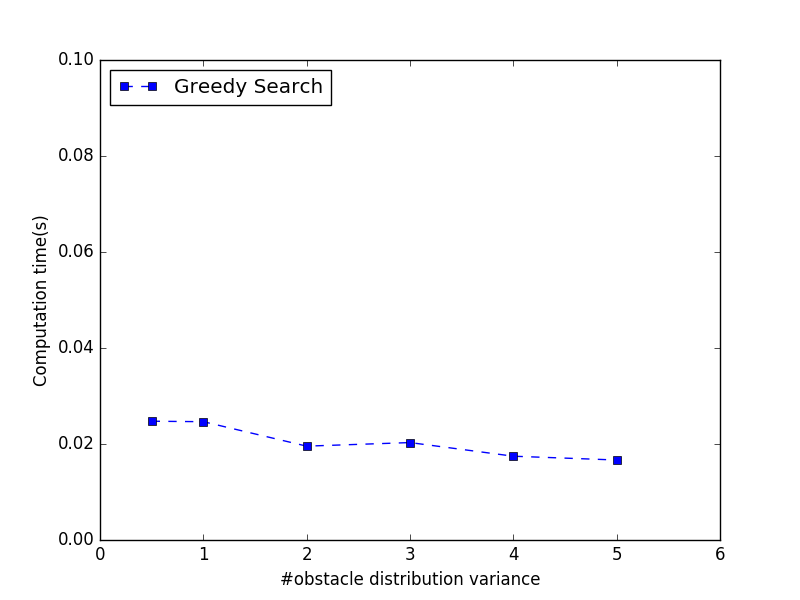
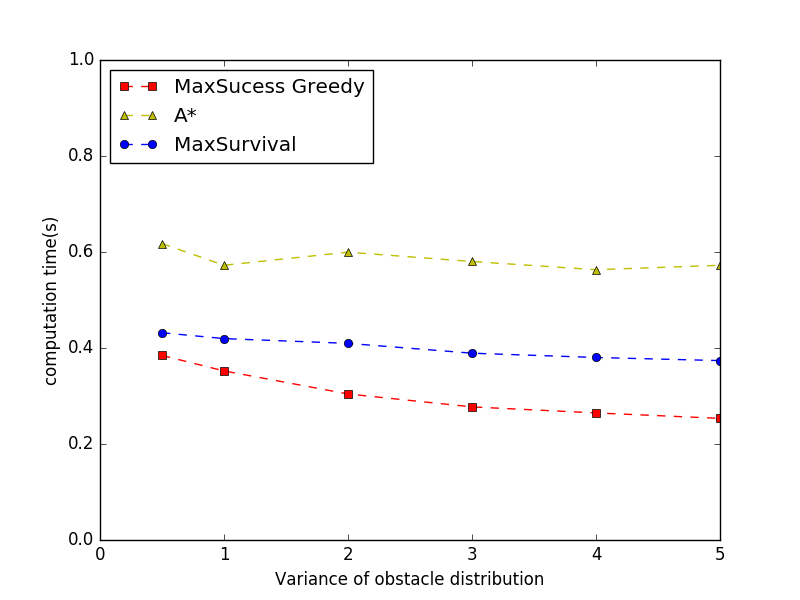
Finish the experiment. Start drafting the paper

diff --git a/multi-goal Greedy executing and replanning/statistics_draw.py b/multi-goal Greedy executing and replanning/statistics_draw.py
@@ -9,17 +9,26 @@ plt.switch_backend('TKagg')
 
 if __name__ == '__main__':
 	
-	file1_nObs_g = "./statistics_ExecutionReplanning/nObstacles/nObstacles_performance.txt";
-	file2_nPosesPerObs_g = "./statistics_ExecutionReplanning/nPosesPerObs/nPosesPerObs_performance.txt";
-	file3_distrVar_g = "./statistics_ExecutionReplanning/distrVar/distrVar_performance.txt";
+	file1_nObs = "./statistics_ExecutionReplanning/nObstacles/nObstacles_performance.txt";
+	file2_nPosesPerObs = "./statistics_ExecutionReplanning/nPosesPerObs/nPosesPerObs_performance.txt";
+	file3_distrVar = "./statistics_ExecutionReplanning/distrVar/distrVar_performance.txt";
 
 	## write in my first file
 	############################################################################
-	f = open(file1_nObs_g)
+	f = open(file1_nObs)
 	nObs = []
 	time_g = []
 	nReplan_g = []
 	pathLength_g = []
+	pathUtilityRate_g = []
+	time_a = []
+	nReplan_a = []
+	pathLength_a = []
+	pathUtilityRate_a = []
+	time_m = []
+	nReplan_m = []
+	pathLength_m = []
+	pathUtilityRate_m = []	
 
 	_counter = 0;
 
@@ -31,41 +40,77 @@ if __name__ == '__main__':
 		time_g.append(line[1])
 		nReplan_g.append(line[2])
 		pathLength_g.append(line[3])
+		pathUtilityRate_g.append(line[4])
+		time_a.append(line[5])
+		nReplan_a.append(line[6])
+		pathLength_a.append(line[7])
+		pathUtilityRate_a.append(line[8])
+		time_m.append(line[9])
+		nReplan_m.append(line[10])
+		pathLength_m.append(line[11])
+		pathUtilityRate_m.append(line[12])
+
+	# IPython.embed()
 
 	## Let's plot the figures
 	plt.figure(1)
-	plt.plot(nObs, time_g, 'bs--', label='Greedy Search')
+	plt.plot(nObs, time_g, 'rs--', label='MaxSucess Greedy')
+	plt.plot(nObs, time_a, 'y^--', label="A*")
+	plt.plot(nObs, time_m, 'bo--', label="MaxSurvival")
 	plt.legend(loc='upper left')
 	plt.xlabel("#obstacles")
-	plt.xlim((3, 55))
-	plt.ylabel("Computation time(s)")
-	plt.ylim((0, 0.03))
+	plt.xlim((8, 65))
+	plt.ylabel("computation time(s)")
+	plt.ylim((0, 1))
 
 	plt.figure(2)
-	plt.plot(nObs, nReplan_g, 'bs--', label='Greedy Search') 
+	plt.plot(nObs, nReplan_g, 'rs--', label='MaxSuccess Greedy')
+	plt.plot(nObs, nReplan_a, 'y^--', label="A*")
+	plt.plot(nObs, nReplan_m, 'bo--', label="MaxSurvival") 
 	plt.legend(loc='upper left')
 	plt.xlabel("#obstacles")
-	plt.xlim((3, 55))
+	plt.xlim((8, 65))
 	plt.ylabel("#replans")
-	plt.ylim((0, 2))
+	plt.ylim((0, 5))
 
 	plt.figure(3)
-	plt.plot(nObs, pathLength_g, 'bs--', label='Greedy Search') 
+	plt.plot(nObs, pathLength_g, 'rs--', label='MaxSuccess Greedy')
+	plt.plot(nObs, pathLength_a, 'y^--', label="A*")
+	plt.plot(nObs, pathLength_m, 'bo--', label="MaxSurvival")  
 	plt.legend(loc='upper left')
 	plt.xlabel("#obstacles")
-	plt.xlim((3, 55))
+	plt.xlim((8, 65))
 	plt.ylabel("path length")
-	plt.ylim((40,70))
+	plt.ylim((0,80))
+
+	plt.figure(4)
+	plt.plot(nObs, pathUtilityRate_g, 'rs--', label='MaxSuccess Greedy')
+	plt.plot(nObs, pathUtilityRate_a, 'y^--', label="A*")
+	plt.plot(nObs, pathUtilityRate_m, 'bo--', label="MaxSurvival")  
+	plt.legend(loc='lower right')
+	plt.xlabel("#obstacles")
+	plt.xlim((8, 65))
+	plt.ylabel("path utility rate")
+	plt.ylim((0.5, 1.2))
 	##############################################################################
 
 
 	## write in my second file
 	############################################################################
-	f = open(file2_nPosesPerObs_g)
+	f = open(file2_nPosesPerObs)
 	nPosesPerObs = []
 	time_g = []
 	nReplan_g = []
 	pathLength_g = []
+	pathUtilityRate_g = []
+	time_a = []
+	nReplan_a = []
+	pathLength_a = []
+	pathUtilityRate_a = []
+	time_m = []
+	nReplan_m = []
+	pathLength_m = []
+	pathUtilityRate_m = []
 
 	_counter = 0;
 
@@ -77,40 +122,74 @@ if __name__ == '__main__':
 		time_g.append(line[1])
 		nReplan_g.append(line[2])
 		pathLength_g.append(line[3])
+		pathUtilityRate_g.append(line[4])
+		time_a.append(line[5])
+		nReplan_a.append(line[6])
+		pathLength_a.append(line[7])
+		pathUtilityRate_a.append(line[8])
+		time_m.append(line[9])
+		nReplan_m.append(line[10])
+		pathLength_m.append(line[11])
+		pathUtilityRate_m.append(line[12])
 
 	## Let's plot the figures
-	plt.figure(4)
-	plt.plot(nPosesPerObs, time_g, 'bs--', label='Greedy Search')
-	plt.legend(loc='upper left')
-	plt.xlabel("#Poses per obstacle")
-	plt.xlim((1, 10))
-	plt.ylabel("Computation time(s)")
-	plt.ylim((0, 0.1))
-
 	plt.figure(5)
-	plt.plot(nPosesPerObs, nReplan_g, 'bs--', label='Greedy Search') 
+	plt.plot(nPosesPerObs, time_g, 'rs--', label='MaxSucess Greedy')
+	plt.plot(nPosesPerObs, time_a, 'y^--', label="A*")
+	plt.plot(nPosesPerObs, time_m, 'bo--', label="MaxSurvival")
 	plt.legend(loc='upper left')
-	plt.xlabel("#Poses per obstacle")
+	plt.xlabel("#poses per obstacle")
 	plt.xlim((1, 10))
-	plt.ylabel("#replans")
-	plt.ylim((0, 3))
+	plt.ylabel("computation time(s)")
+	plt.ylim((0, 1))
 
 	plt.figure(6)
-	plt.plot(nPosesPerObs, pathLength_g, 'bs--', label='Greedy Search') 
+	plt.plot(nPosesPerObs, nReplan_g, 'rs--', label='MaxSuccess Greedy')
+	plt.plot(nPosesPerObs, nReplan_a, 'y^--', label="A*")
+	plt.plot(nPosesPerObs, nReplan_m, 'bo--', label="MaxSurvival") 
 	plt.legend(loc='upper left')
-	plt.xlabel("#Poses per obstacle")
+	plt.xlabel("#poses per obstacle")
+	plt.xlim((1, 10))
+	plt.ylabel("#replans")
+	plt.ylim((0, 5))
+
+	plt.figure(7)
+	plt.plot(nPosesPerObs, pathLength_g, 'rs--', label='MaxSuccess Greedy')
+	plt.plot(nPosesPerObs, pathLength_a, 'y^--', label="A*")
+	plt.plot(nPosesPerObs, pathLength_m, 'bo--', label="MaxSurvival")  
+	plt.legend(loc='upper left')
+	plt.xlabel("#poses per obstacle")
 	plt.xlim((1, 10))
 	plt.ylabel("path length")
-	plt.ylim((40,70))
+	plt.ylim((0,80))
+
+	plt.figure(8)
+	plt.plot(nPosesPerObs, pathUtilityRate_g, 'rs--', label='MaxSuccess Greedy')
+	plt.plot(nPosesPerObs, pathUtilityRate_a, 'y^--', label="A*")
+	plt.plot(nPosesPerObs, pathUtilityRate_m, 'bo--', label="MaxSurvival")  
+	plt.legend(loc='lower right')
+	plt.xlabel("#poses per obstacle")
+	plt.xlim((1, 10))
+	plt.ylabel("path utility rate")
+	plt.ylim((0.5, 1.2))
 	##############################################################################
 
 	## write in my third file
 	############################################################################
-	f = open(file3_distrVar_g)
+	f = open(file3_distrVar)
 	distrVar = []
 	time_g = []
 	nReplan_g = []
 	pathLength_g = []
+	pathUtilityRate_g = []
+	time_a = []
+	nReplan_a = []
+	pathLength_a = []
+	pathUtilityRate_a = []
+	time_m = []
+	nReplan_m = []
+	pathLength_m = []
+	pathUtilityRate_m = []
 
 	_counter = 0;
 
@@ -122,31 +201,56 @@ if __name__ == '__main__':
 		time_g.append(line[1])
 		nReplan_g.append(line[2])
 		pathLength_g.append(line[3])
+		pathUtilityRate_g.append(line[4])
+		time_a.append(line[5])
+		nReplan_a.append(line[6])
+		pathLength_a.append(line[7])
+		pathUtilityRate_a.append(line[8])
+		time_m.append(line[9])
+		nReplan_m.append(line[10])
+		pathLength_m.append(line[11])
+		pathUtilityRate_m.append(line[12])
 
 	## Let's plot the figures
-	plt.figure(7)
-	plt.plot(distrVar, time_g, 'bs--', label='Greedy Search')
-	plt.legend(loc='upper left')
-	plt.xlabel("#obstacle distribution variance")
-	plt.xlim((0, 6))
-	plt.ylabel("Computation time(s)")
-	plt.ylim((0, 0.1))
-
-	plt.figure(8)
-	plt.plot(distrVar, nReplan_g, 'bs--', label='Greedy Search') 
-	plt.legend(loc='upper left')
-	plt.xlabel("#obstacle distribution variance")
-	plt.xlim((0, 6))
-	plt.ylabel("#replans")
-	plt.ylim((0, 3))
-
 	plt.figure(9)
-	plt.plot(distrVar, pathLength_g, 'bs--', label='Greedy Search') 
+	plt.plot(distrVar, time_g, 'rs--', label='MaxSucess Greedy')
+	plt.plot(distrVar, time_a, 'y^--', label="A*")
+	plt.plot(distrVar, time_m, 'bo--', label="MaxSurvival")
 	plt.legend(loc='upper left')
-	plt.xlabel("#obstacle distribution variance")
-	plt.xlim((0, 6))
+	plt.xlabel("Variance of obstacle distribution")
+	plt.xlim((0.0, 5.0))
+	plt.ylabel("computation time(s)")
+	plt.ylim((0, 1))
+
+	plt.figure(10)
+	plt.plot(distrVar, nReplan_g, 'rs--', label='MaxSuccess Greedy')
+	plt.plot(distrVar, nReplan_a, 'y^--', label="A*")
+	plt.plot(distrVar, nReplan_m, 'bo--', label="MaxSurvival") 
+	plt.legend(loc='upper left')
+	plt.xlabel("Variance of obstacle distribution")
+	plt.xlim((0.0, 5.0))
+	plt.ylabel("#replans")
+	plt.ylim((0, 5))
+
+	plt.figure(11)
+	plt.plot(distrVar, pathLength_g, 'rs--', label='MaxSuccess Greedy')
+	plt.plot(distrVar, pathLength_a, 'y^--', label="A*")
+	plt.plot(distrVar, pathLength_m, 'bo--', label="MaxSurvival")  
+	plt.legend(loc='upper left')
+	plt.xlabel("Variance of obstacle distribution")
+	plt.xlim((0.0, 6.0))
 	plt.ylabel("path length")
-	plt.ylim((40,70))
+	plt.ylim((0,80))
+
+	plt.figure(12)
+	plt.plot(distrVar, pathUtilityRate_g, 'rs--', label='MaxSuccess Greedy')
+	plt.plot(distrVar, pathUtilityRate_a, 'y^--', label="A*")
+	plt.plot(distrVar, pathUtilityRate_m, 'bo--', label="MaxSurvival")  
+	plt.legend(loc='lower right')
+	plt.xlabel("Variance of obstacle distribution")
+	plt.xlim((0.0, 5.0))
+	plt.ylabel("path utility rate")
+	plt.ylim((0.5, 1.2))
 	##############################################################################
 
 
